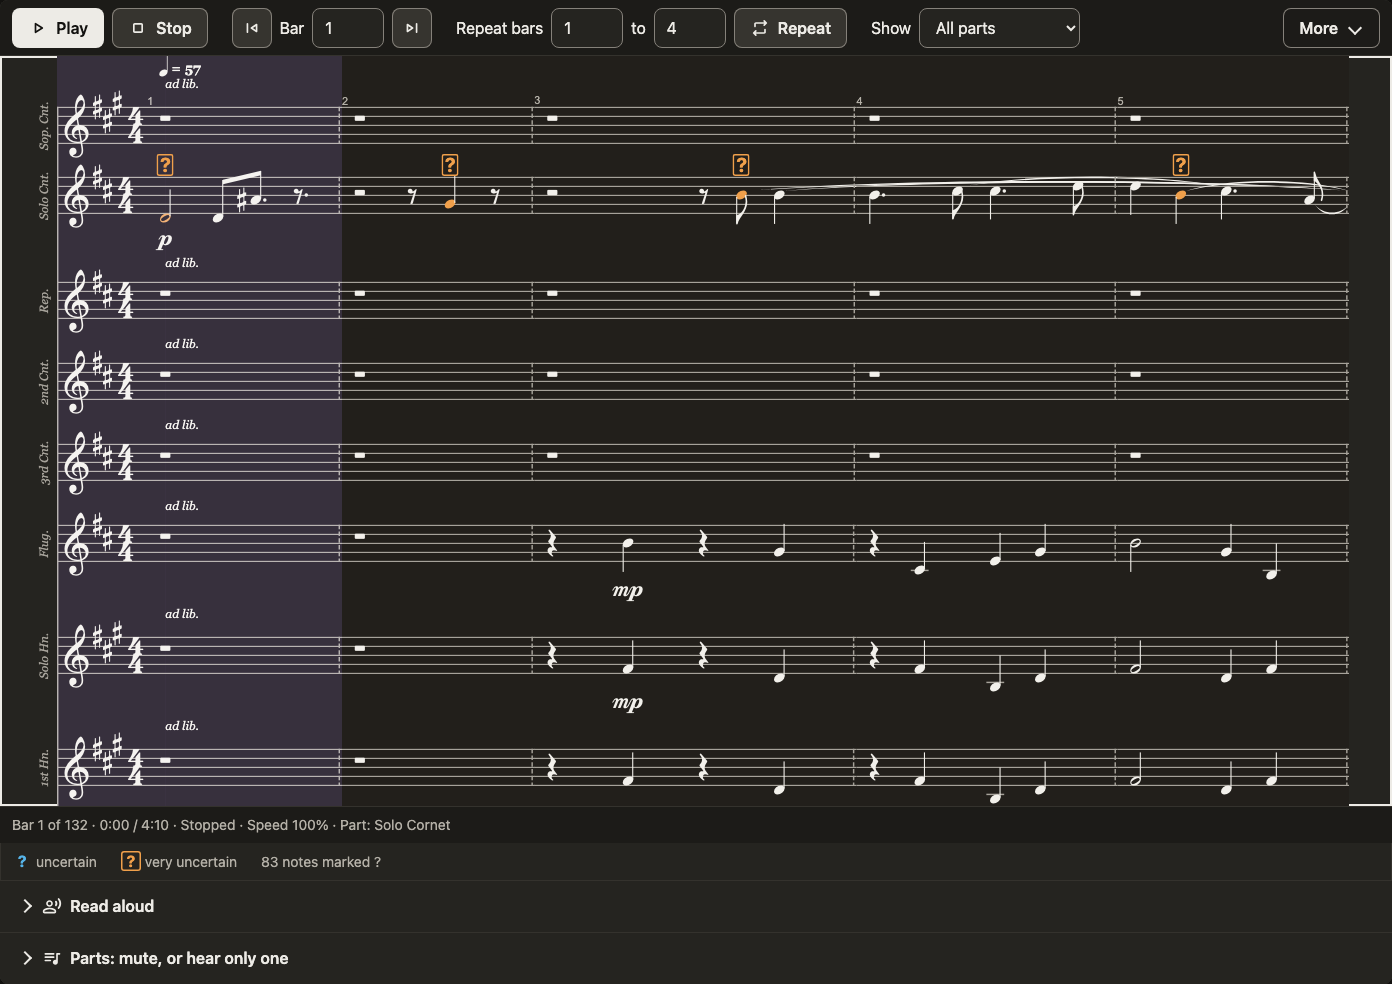
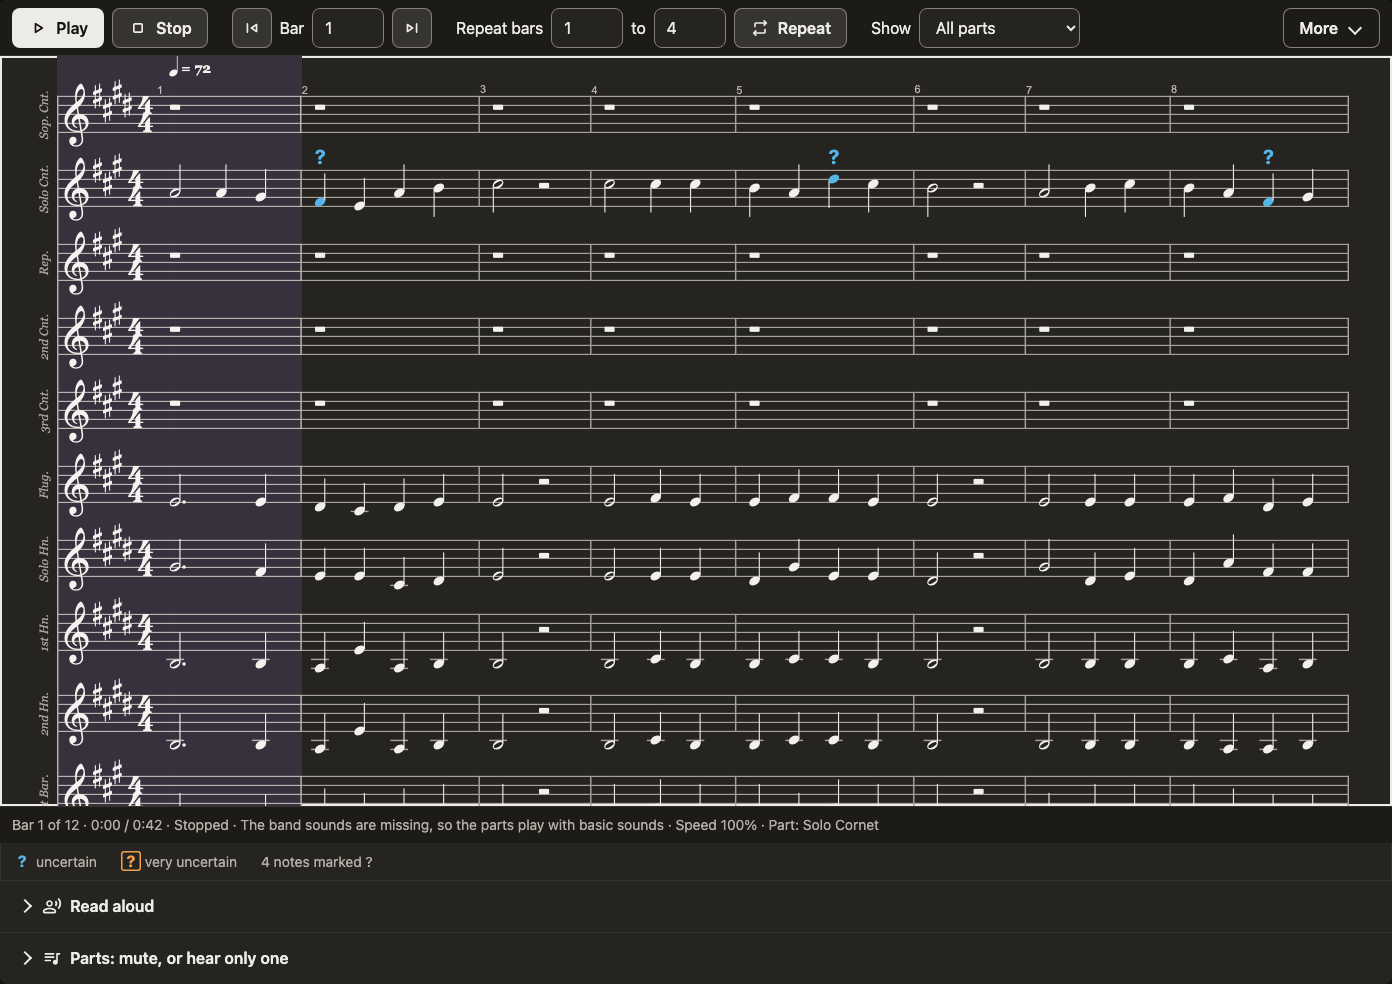
fix(studio): the viewer's themed screenshots show Old Hundredth
The viewer entry of the themes test opened the Mikkel golden score, and
those screenshots are on the website. It now opens the public-domain
fixture, and a small test shoots just the viewer in every theme.

Changed region(s): [[0.0309, 0.0305, 0.9885, 0.8841]]

diff --git a/studio/e2e/studio.spec.ts b/studio/e2e/studio.spec.ts
@@ -9,6 +9,8 @@ const here = dirname(fileURLToPath(import.meta.url));
 const shots = join(here, "..", "docs", "screenshots");
 const repo = join(here, "..", "..");
 const golden = join(repo, "data", "golden", "mikkel-arranged-band");
+// The public-domain score the viewer's screenshots show (they are on the website).
+const fixtureScore = join(repo, "apps", "fixtures", "old-hundredth", "brass-band.musicxml");
 mkdirSync(shots, { recursive: true });
 
 const WCAG = ["wcag2a", "wcag2aa", "wcag21a", "wcag21aa", "wcag22aa"];
@@ -394,24 +396,12 @@ const THEMES = [
   { name: "nb", media: { colorScheme: "light" as const, contrast: "no-preference" as const }, lang: "nb" },
 ];
 
-test("every view in light, dark, high contrast and Norwegian passes axe", async ({ page }) => {
-  test.setTimeout(900_000);
-  const run = await mikkelRun(page);
+type ThemedView = { name: string; route: string; score?: boolean; open?: string };
+
+/** Every view in every theme: a viewport screenshot, the score panel for score views, and axe. */
+async function shootThemes(page: Page, views: ThemedView[]): Promise<void> {
   const themes = join(shots, "themes");
   mkdirSync(themes, { recursive: true });
-  const views: { name: string; route: string; score?: boolean; open?: boolean }[] = [
-    { name: "runs", route: "runs" },
-    { name: "run", route: `runs/${run.id}/score`, score: true },
-    { name: "run-roll", route: `runs/${run.id}/roll` },
-    { name: "run-beats", route: `runs/${run.id}/beats` },
-    { name: "run-manifest", route: `runs/${run.id}/manifest` },
-    { name: "viewer", route: "viewer", score: true, open: true },
-    { name: "compare", route: `compare?a=${run.id}&b=ref:mikkel-arranged-band` },
-    { name: "bench", route: "bench" },
-    { name: "parity", route: "parity" },
-    { name: "conformance", route: "conformance" },
-    { name: "registry", route: "registry" },
-  ];
   for (const th of THEMES) {
     await page.emulateMedia(th.media);
     await page.goto("/#/runs");
@@ -419,7 +409,7 @@ test("every view in light, dark, high contrast and Norwegian passes axe", async 
     for (const v of views) {
       await page.goto(`/#/${v.route}`);
       if (v.open) {
-        await page.setInputFiles("#open-musicxml", join(golden, "brass-band.musicxml"));
+        await page.setInputFiles("#open-musicxml", v.open);
       }
       await page.waitForFunction(() => !document.querySelector("#main .loading"), undefined, { timeout: 120_000 });
       if (v.score) await waitRendered(page);
@@ -434,6 +424,32 @@ test("every view in light, dark, high contrast and Norwegian passes axe", async 
     }
   }
   await page.locator("#lang-select").selectOption("en");
+}
+
+const VIEWER: ThemedView = { name: "viewer", route: "viewer", score: true, open: fixtureScore };
+
+test("every view in light, dark, high contrast and Norwegian passes axe", async ({ page }) => {
+  test.setTimeout(900_000);
+  const run = await mikkelRun(page);
+  await shootThemes(page, [
+    { name: "runs", route: "runs" },
+    { name: "run", route: `runs/${run.id}/score`, score: true },
+    { name: "run-roll", route: `runs/${run.id}/roll` },
+    { name: "run-beats", route: `runs/${run.id}/beats` },
+    { name: "run-manifest", route: `runs/${run.id}/manifest` },
+    VIEWER,
+    { name: "compare", route: `compare?a=${run.id}&b=ref:mikkel-arranged-band` },
+    { name: "bench", route: "bench" },
+    { name: "parity", route: "parity" },
+    { name: "conformance", route: "conformance" },
+    { name: "registry", route: "registry" },
+  ]);
+});
+
+// The viewer alone, for the website's screenshots (no run or golden data needed).
+test("the score viewer in every theme", async ({ page }) => {
+  test.setTimeout(300_000);
+  await shootThemes(page, [VIEWER]);
 });
 
 test("re-run from a manifest, follow it live, compare with the original", async ({ page }) => {
